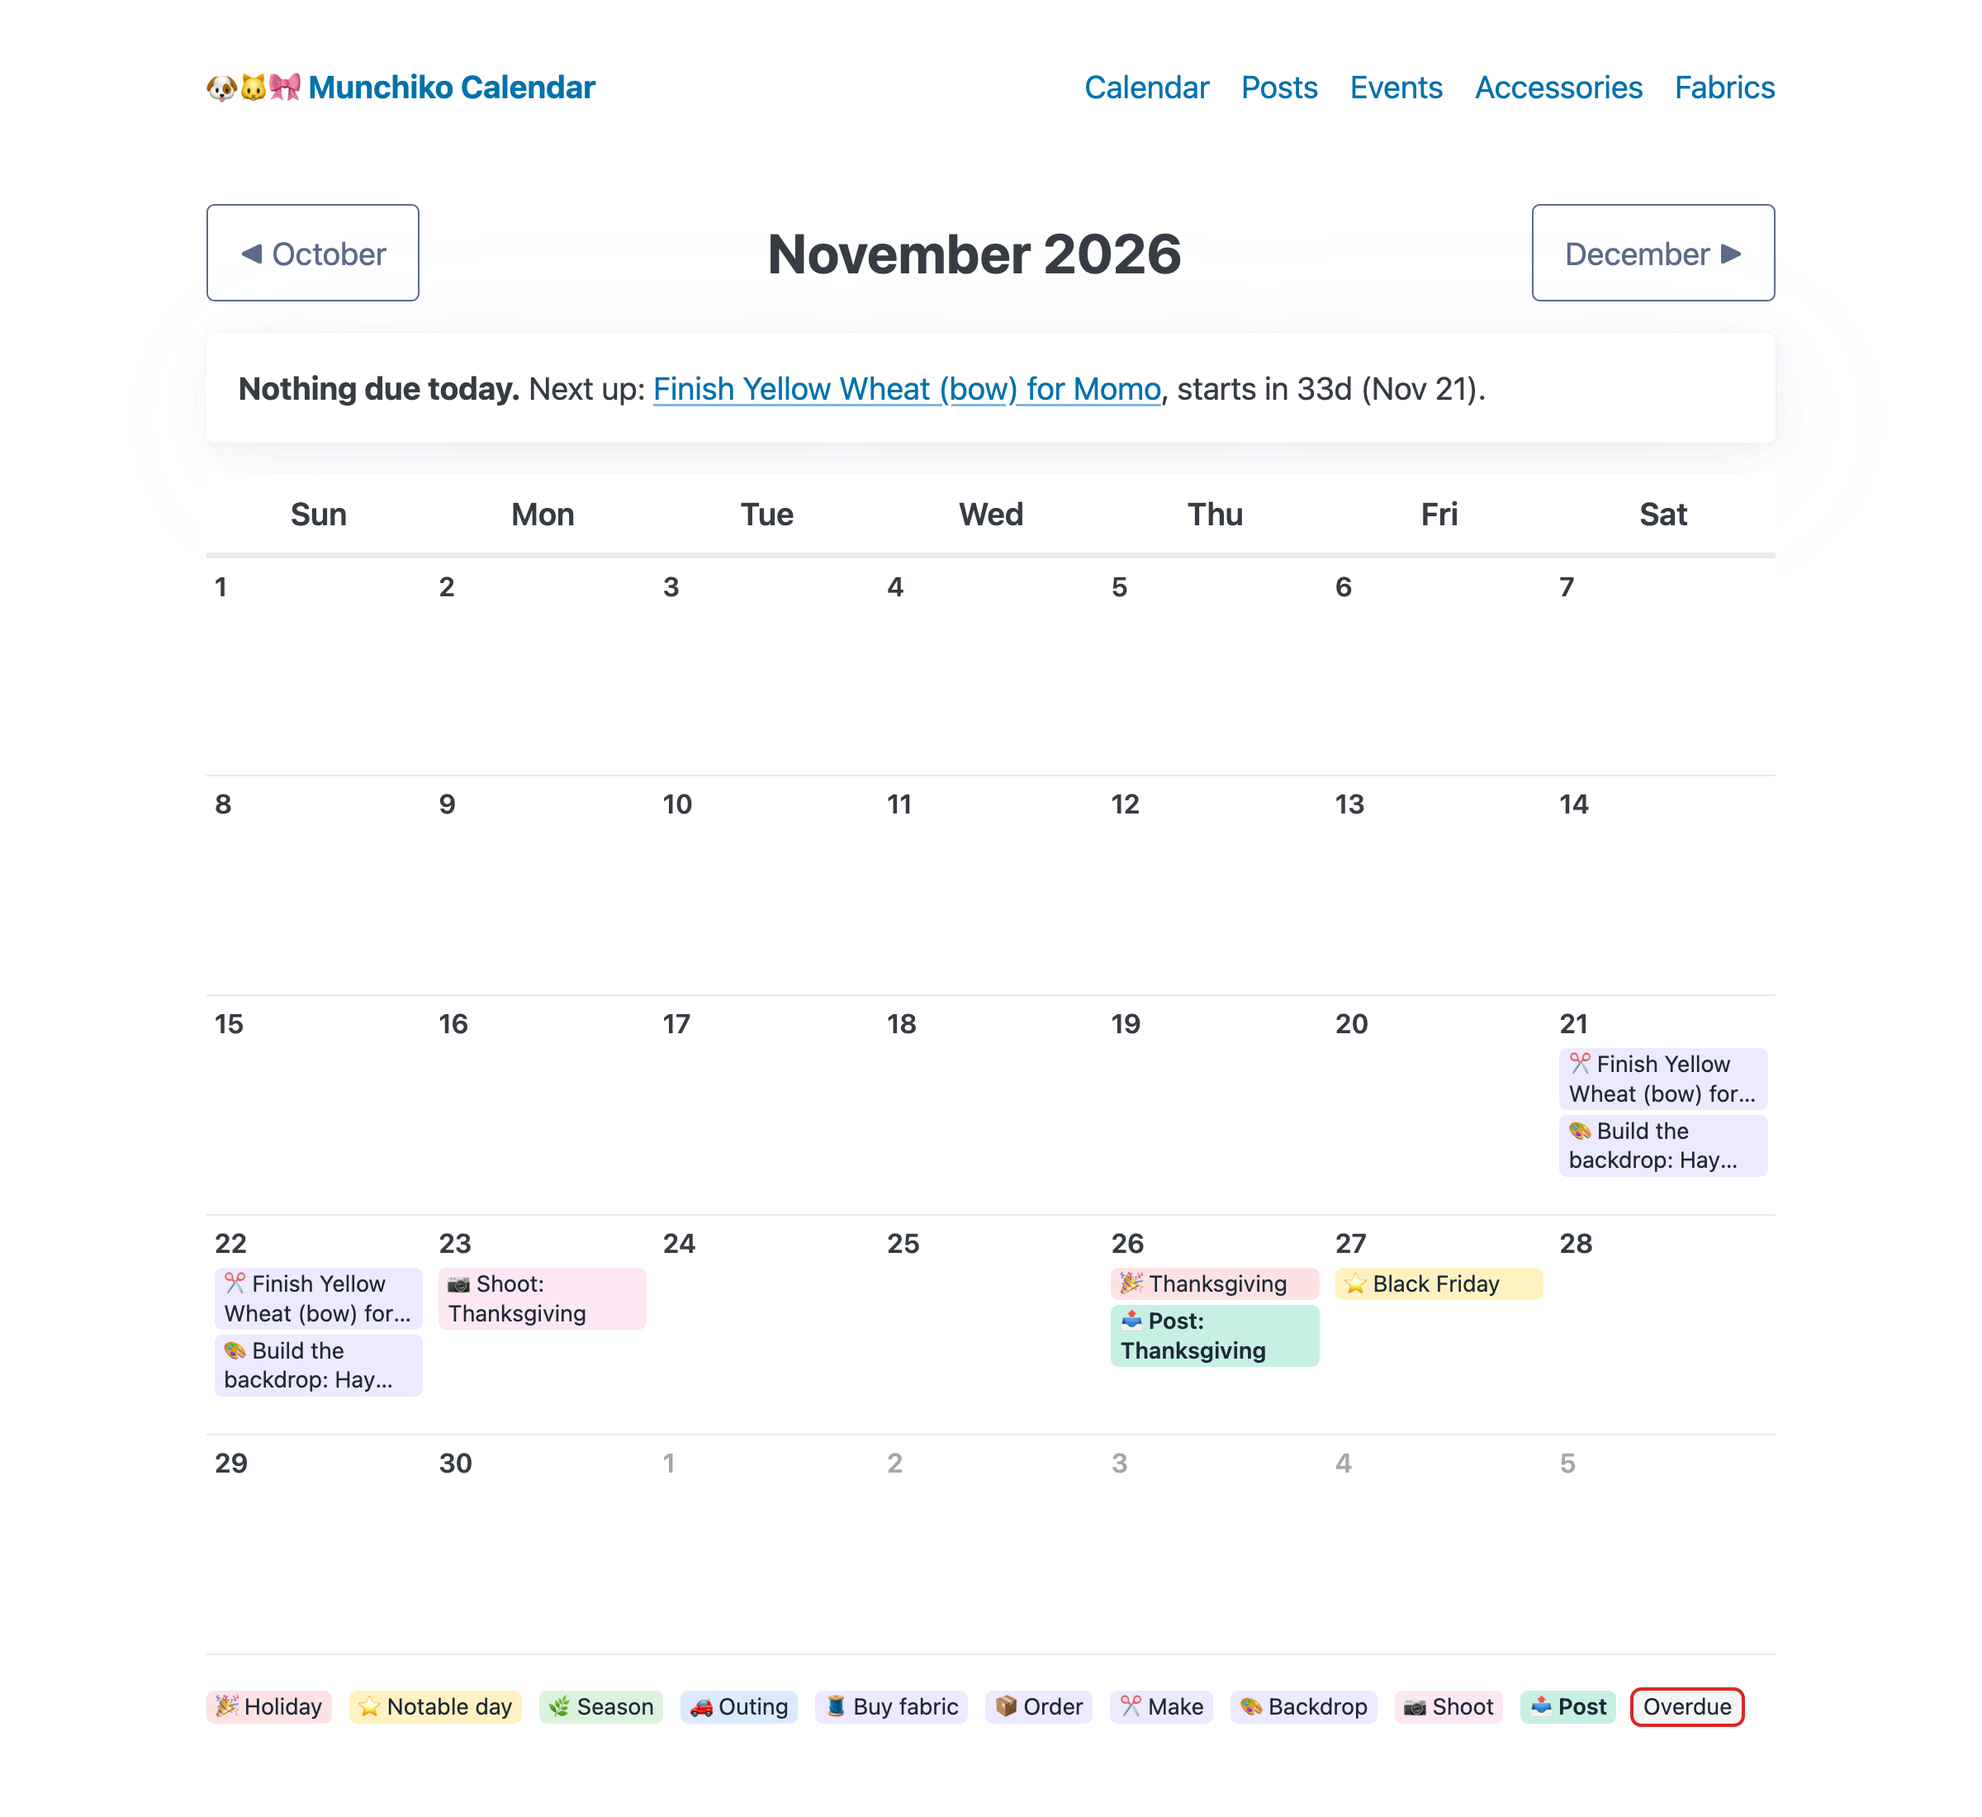
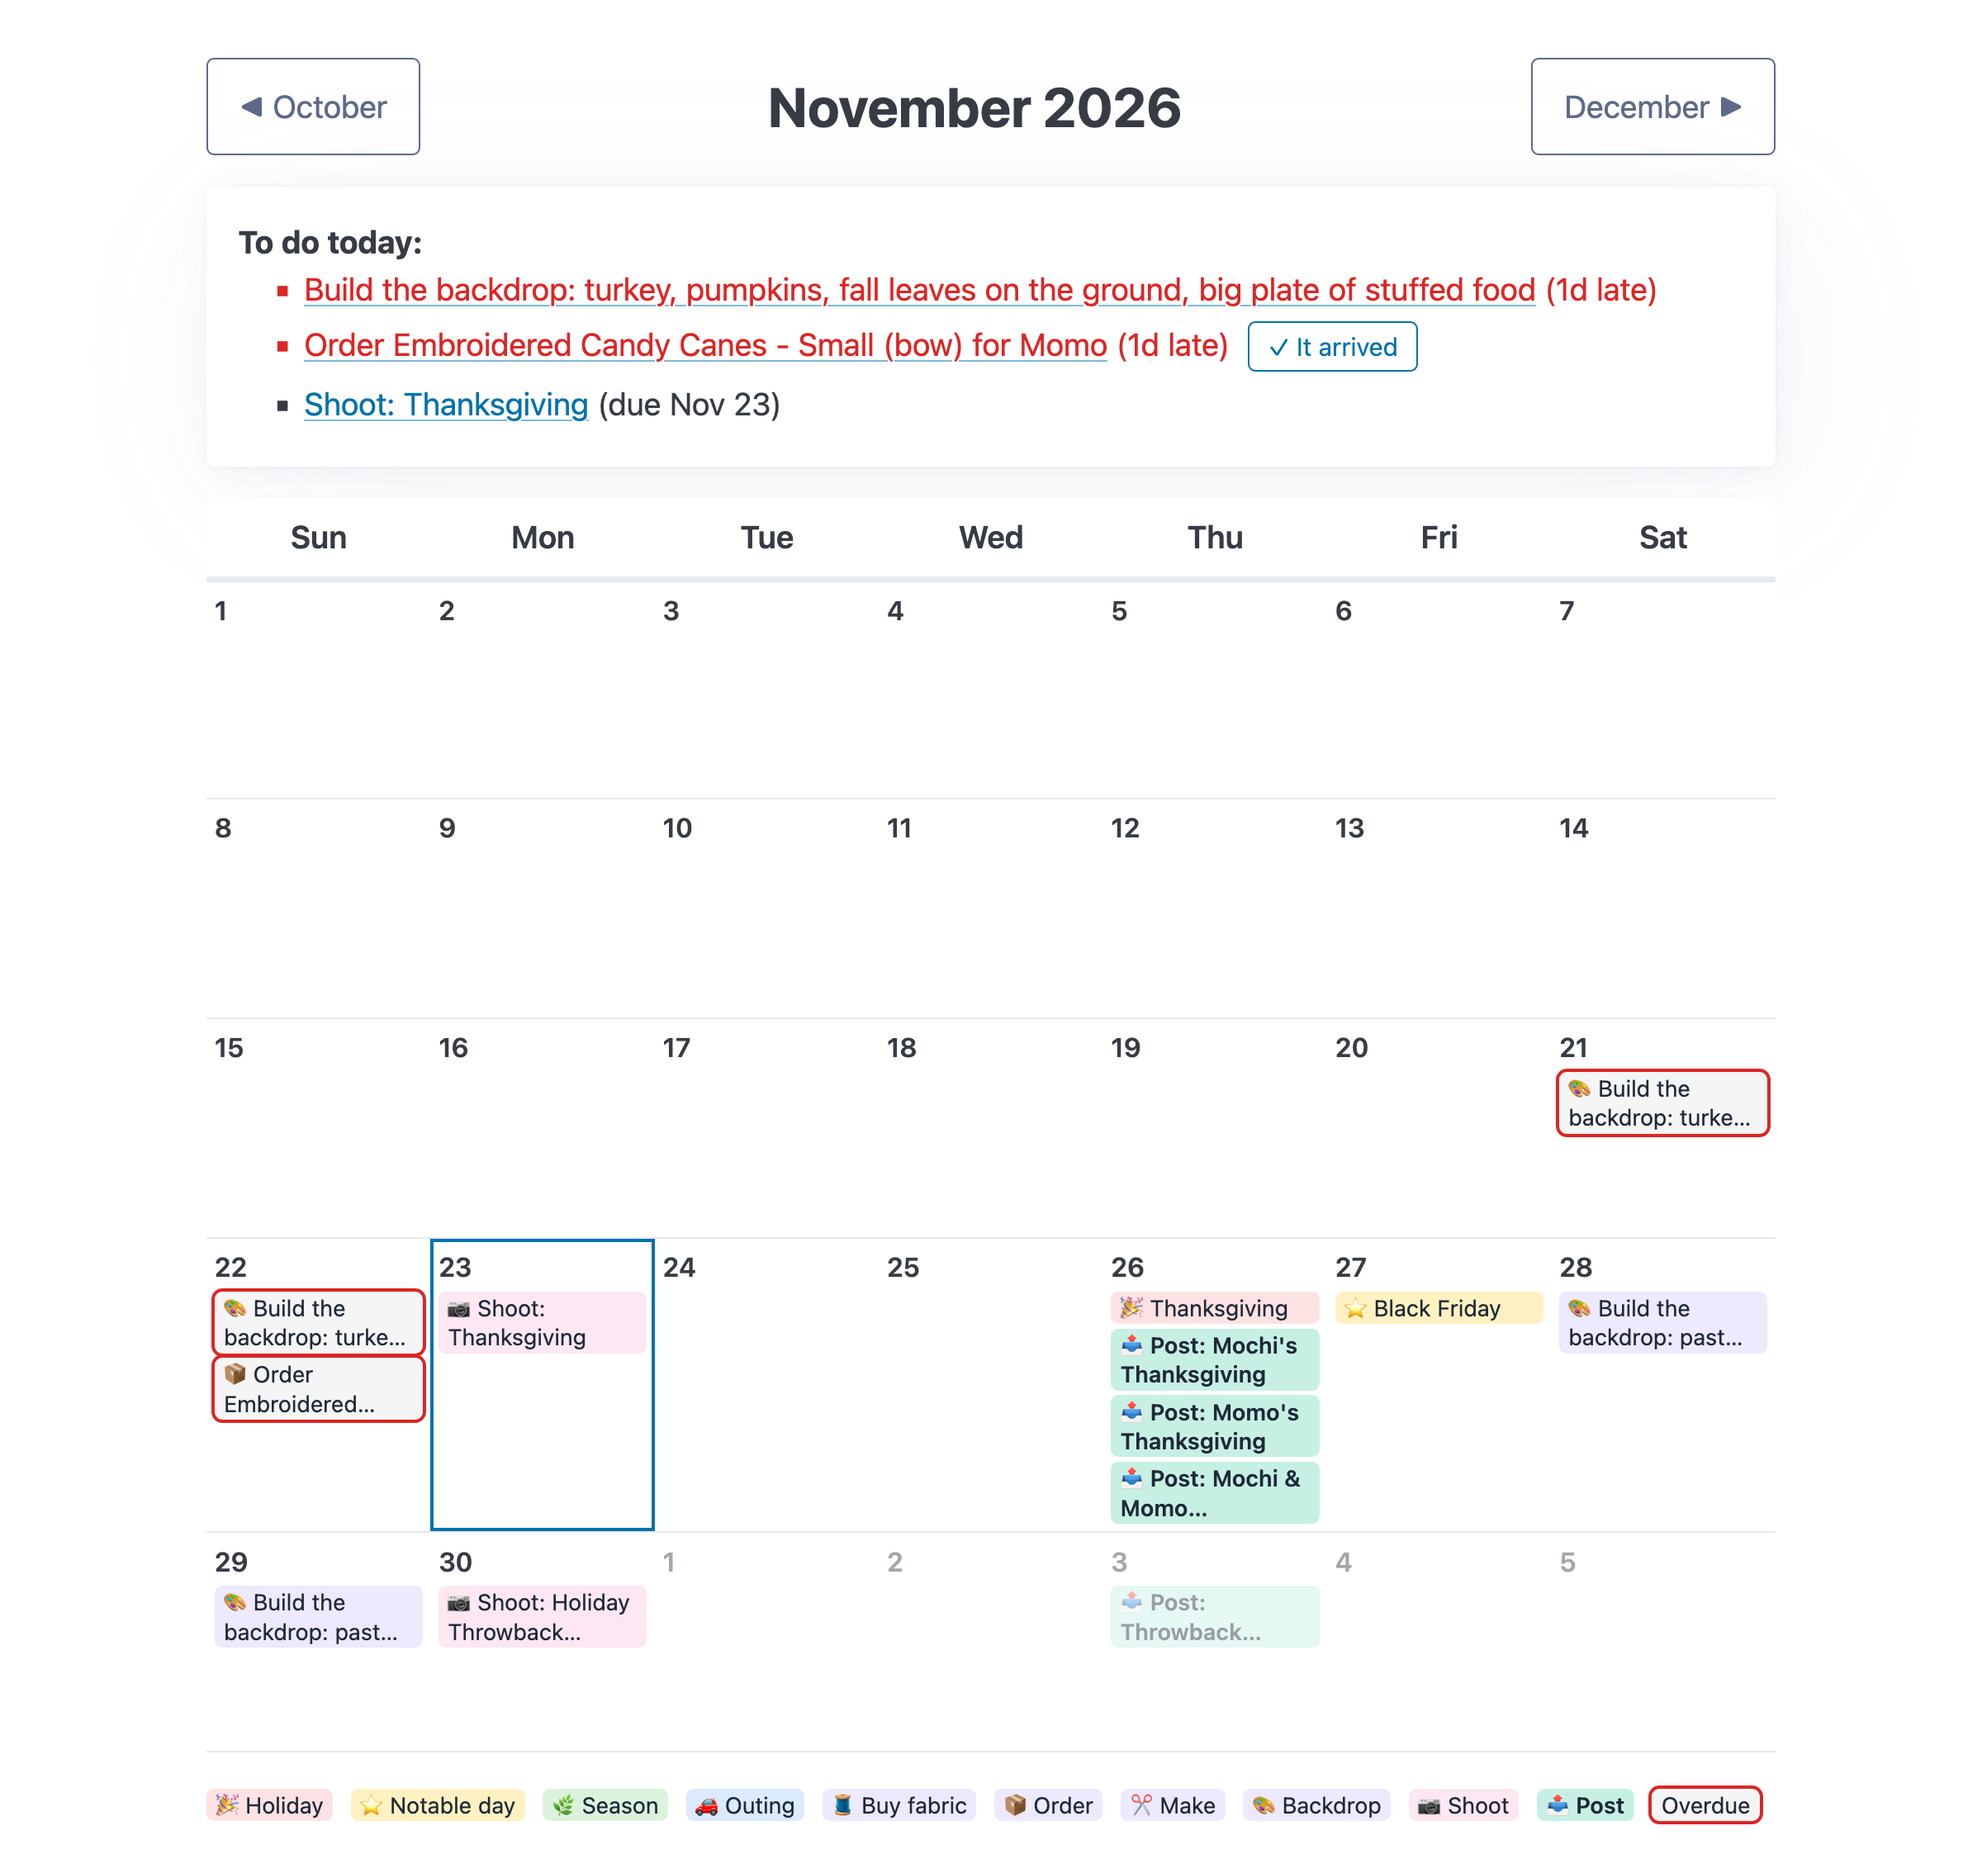
Portfolio refresh R1: new screenshots and README front page
- Nine screenshots (Firefox, 2x) of the app as it is now: calendar with
  Done buttons, a series, a post with an outfit, suggestions, the accessory
  grid, the accessory form (fabric boxes, palette colors, photo colors),
  partner ideas, colors from a photo, the palette
- README pitch and highlights cover series, outfits, the palette, partner
  ideas and Done buttons; screenshot changes made for the pictures disclosed
- Fabric form: color help text updated for the palette

diff --git a/templates/fabric_form.html b/templates/fabric_form.html
@@ -19,7 +19,7 @@
   </label>
   <fieldset>
     <legend>Colors</legend>
-    <p><small class="muted">Name each color (suggestions match on the name), then pick the exact shade. The picker's eyedropper can sample from anywhere on screen, such as a photo of the fabric.</small></p>
+    <p><small class="muted">Suggestions for holidays match on color names. For a new color, the shade picker's eyedropper can sample from anywhere on screen, such as a photo of the fabric.</small></p>
     {% include "color_fields.html" %}
   </fieldset>
   <label>

diff --git a/README.md b/README.md
@@ -13,20 +13,29 @@ take the photos, and it suggests what to wear from what's already in the stash.
 
 - **Backward planning:** each post becomes a dated prep timeline (buy fabric →
   make bow → build backdrop → photo shoot → publish), with the critical path
-  and slack worked out, shown on a month calendar.
-- **Suggestions with reasons:** "for Thanksgiving, consider the Orange
-  Sunflower bow: autumn, orange · matching set · ready to wear".
+  and slack, on a month calendar with a "to do today" box. **Done** buttons
+  mark a bow made or fabric bought, and the task disappears.
+- **Flexible posts:** ideas without a date, and **series**: several posts from
+  one setup and photo shoot, each published on its own day.
+- **Suggestions with reasons:** "for Christmas, consider Holiday Ornament
+  Red & Green: green, red · ready to wear", plus likely **matching partners**
+  for a bow (checked against the real sets: the right partner came first for
+  22 of 24).
+- **A shared color palette:** fabrics and bows use one list of named colors,
+  so renaming or reshading one changes it everywhere; near-duplicates are
+  pointed out and merged with a preview and an automatic backup. Names come
+  from the public-domain xkcd color survey.
+- **Photos and real colors:** upload photos (HEIC and AVIF converted on a Mac)
+  and take the main colors straight from them, matched to the palette.
+- **Outfits and inventory:** pieces worn together (Glinda's crown, dress and
+  wand), how many of each you own, and type-to-search pickers for long lists.
 - **~45 holidays from an editable file**, with date rules for "4th Thursday of
   November", Easter-relative days and multi-day events.
-- **Photos and real colors:** upload photos (HEIC and AVIF converted on a Mac), give
-  each color an exact swatch with the picker's eyedropper, or take the main
-  colors straight from a photo.
-- **Guided errors:** instead of "can't delete", the chain of what's in the way
-  and where to start.
 
 **Built with** Rust · Axum · SQLite (sqlx, migrations) · Askama server-rendered
-templates · Pico CSS · a few small optional scripts · the `image` crate.
-241 tests. Design decisions and trade-offs: **[docs/DESIGN.md](docs/DESIGN.md)**.
+templates · Pico CSS · a few small optional scripts (the logic stays in Rust) ·
+the `image` crate.
+243 tests. Design decisions and trade-offs: **[docs/DESIGN.md](docs/DESIGN.md)**.
 
 ## Quick start
 
@@ -42,39 +51,59 @@ something to look at.
 
 ## Screenshots
 
-The screenshots show real data from the account's stash (its fabrics, bows
-and photos), plus two posts planned for the screenshots.
+Real data from the account's stash (its fabrics, bows, photos and palette),
+with posts planned for the screenshots. Two small changes were made on a copy
+of the data for the pictures: one bow (Embroidered Candy Canes - Small) marked
+as not arrived yet, so a Done button shows, and the Elphaba outfit chosen for
+Momo in the Halloween Shoot.
 
-**Calendar:** holidays and every prep task for the Thanksgiving post, worked
-backward from Nov 26. The box at the top says what's due today, or what's next.
+**Calendar:** holidays and every prep task, worked backward from the post
+dates; the box at the top says what's due today, with a Done button for the
+bow that's still on its way.
 
-![Month calendar with holidays and prep tasks](docs/screenshots/calendar.png)
+![Month calendar with holidays, prep tasks and the to-do box](docs/screenshots/calendar.png)
 
-**A post's prep timeline:** who wears what, the backdrop, and when each task
-has to happen.
+**A series:** three Throwback Thursday posts from one shared setup and photo
+shoot; the timeline plans the shoot once, before the first post.
 
-![Thanksgiving post with its prep timeline](docs/screenshots/post-timeline.png)
+![Holiday Throwback Thursdays series with its shared timeline](docs/screenshots/series.png)
+
+**A post with an outfit:** Momo wears the Elphaba costume (cape and witch hat),
+chosen as one outfit.
+
+![Halloween post with an outfit for Momo](docs/screenshots/post-outfit.png)
 
 **Suggestions:** accessories that fit the event, best first, with the reasons
-why. The top two are a matching Mochi & Momo set.
+why.
 
-![Ideas for Thanksgiving](docs/screenshots/ideas.png)
+![Ideas for Christmas](docs/screenshots/ideas.png)
 
-**Fabrics:** photo thumbnails, colors with their exact shades, pairings, and
-which bows use each fabric.
+**Accessories:** a photo grid (small / medium / large), filters by kind,
+status, tag and warm/cool tone, sort by color.
 
-![Fabric list with photo thumbnails and color swatches](docs/screenshots/fabrics.png)
+![Accessory grid with photos, colors and tags](docs/screenshots/accessories-grid.png)
 
-**Colors from photos:** the main colors of the fabric's photos are offered as
-chips. Here "faded yellow" and "faded orange" have just been given the shades
-of the "pale yellow" and "peach" chips. (Trimmed view: the name, description
-and keyword fields are hidden.)
+**An accessory's fabrics and colors:** fabrics chosen by typing their name;
+colors from the palette (each shows its own shade); colors found in the
+photos, reusing palette colors ("yours") or offered as new ones.
 
-![Fabric photos, color rows and the colors found in the photos](docs/screenshots/colors-from-photos.png)
+![Accessory form with fabric boxes, palette colors and photo colors](docs/screenshots/accessory-form.png)
 
-**Guided deletes:** what's in the way, and where to start.
+**Matching partner ideas:** likely other halves of a Mochi & Momo set, with
+the reason (a paired fabric, shared name words).
 
-![Can't delete this fabric yet, with what uses it](docs/screenshots/delete-chain.png)
+![Partner ideas under the matching set box](docs/screenshots/partner-ideas.png)
+
+**Colors from photos:** the fabric's photo, its palette colors, and the main
+colors found in the photo: mostly "yours", with "or new" where a palette color
+is close but not the same.
+
+![Fabric photo, color rows and the colors found in the photo](docs/screenshots/colors-from-photos.png)
+
+**The palette:** every color once, in rainbow order, with what uses it; edit a
+color (it changes everywhere) or merge it into another.
+
+![Palette page with a color's edit panel open](docs/screenshots/palette.png)
 
 ## How the planning works
 

diff --git a/CLAUDE.md b/CLAUDE.md
@@ -604,6 +604,17 @@ See README.md for the planning rules, data model and roadmap.
   Shot list: calendar (Done buttons), post with outfit, suggestions, accessory grid,
   accessory form (name boxes/palette/partner ideas), colors from a photo, Palette
   page, guided deletes.
+- **R1 done (portfolio refresh, 2026-11-23):** 9 screenshots in docs/screenshots (calendar,
+  series, post-outfit, ideas, accessories-grid, accessory-form, partner-ideas,
+  colors-from-photos, palette; delete-chain/fabrics/post-timeline removed), taken in
+  headless Firefox 160 at 2x (profile user.js `layout.css.devPixelsPerPx` = 2.0,
+  window 1200 wide) from a copy of her data with the posts she set up; on the copy
+  only: Embroidered Candy Canes - Small set to in_progress (a bought bow → "✓ It
+  arrived" Done button) and Elphaba outfit chosen for Momo in Halloween Shoot (both
+  disclosed in README); palette shot opens one Edit panel. Scratchpad script
+  `marionette/shoot.py OUT [names…]` (full-page capture, crop between selectors with
+  sips). README pitch/highlights rewritten for v2. Also fixed the fabric form's
+  pre-palette color help text. Next: R2 (DESIGN.md + v2.0 tag), then she reviews.
 - **Possible next steps (not started; ask first):** photo thumbnails in the ideas box; drop "(bow)" from planner task
   titles; "upcoming events with no post yet" nudge on
   the calendar; deploying/screenshots for the portfolio.
